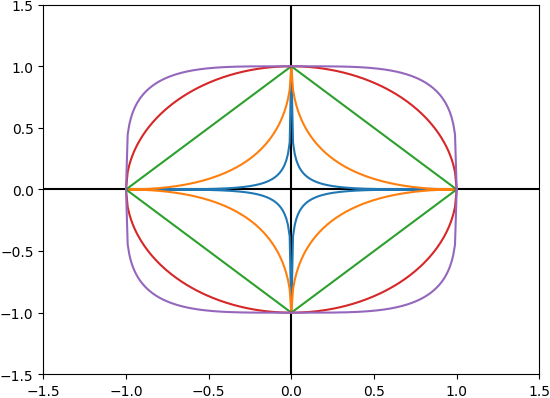
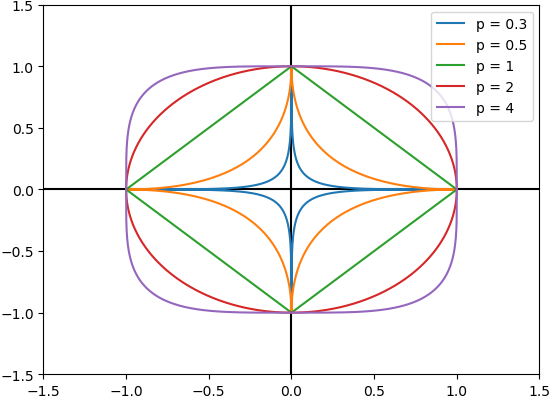
Fix task 4

diff --git a/01/task14.py b/01/task14.py
@@ -30,8 +30,8 @@ def unitball():
     """
 
     # x points created in the order of quadrants
-    q1 = np.linspace(1.0, 0.0, 100)
-    q2 = np.linspace(0.0, -1.0, 100)
+    q1 = np.linspace(1.0, 0.0, 1000)
+    q2 = np.linspace(0.0, -1.0, 1000)
     q3 = q2[::-1]
     q4 = q1[::-1]
 
@@ -41,18 +41,37 @@ def unitball():
     plt.axvline(0, color='black')
 
     for p in [0.3, 0.5, 1, 2, 4]:
-        y1 =  (1 - np.abs(q1) ** p) ** (1/p)
-        y2 =  (1 - np.abs(q2) ** p) ** (1/p)
-        y3 = -(1 - np.abs(q3) ** p) ** (1/p)
-        y4 = -(1 - np.abs(q4) ** p) ** (1/p)
+        y1 =  (1 - np.abs(q1) ** p) ** (1.0/p)
+        y2 =  (1 - np.abs(q2) ** p) ** (1.0/p)
+        y3 = -(1 - np.abs(q3) ** p) ** (1.0/p)
+        y4 = -(1 - np.abs(q4) ** p) ** (1.0/p)
 
         x = np.concatenate(( q1, q2, q3, q4))
         y = np.concatenate(( y1, y2, y3, y4))
 
-        plt.plot(x, y)
+        plt.plot(x, y, label = "p = "+str(p))
 
+    plt.legend(loc='upper right')
     plt.savefig("out/unityball.png", bbox_inches="tight", pad_inches=0)
     plt.show()
     plt.close()
 
 unitball()
+
+# By picking any two vectors; i.e. (x1, y1) = (0, 1) and (x2, y2) = (1, 0). Then
+# by calculating there norms,  we will find that this will be equal to 1.
+p = 0.5
+v1_x = 0
+v1_y = 1
+print "Norm of v1: ", (np.abs(v1_x) ** p + np.abs(v1_y) ** p) ** (1.0/p)
+v2_x = 1
+v2_y = 0
+print "Norm of v2: ", (np.abs(v2_x) ** p + np.abs(v2_y) ** p) ** (1.0/p)
+# But by calculating the norm of v1 + v2 = (0, 1) + (1, 0) = (1, 1); This will
+# be equal 4.
+v3_x = 1
+v3_y = 1
+print "Norm of (v1 + v2): ", (np.abs(v3_x) ** p + np.abs(v3_y) ** p) ** (1.0/p)
+# This result is larger than the summation of norm(v1) and norm(v2) and does not
+# satisfy the property of norm for: norm(v1 + v2) <= norm(v1) + norm(v2).
+# As a conclusion, this is not really a norm.
